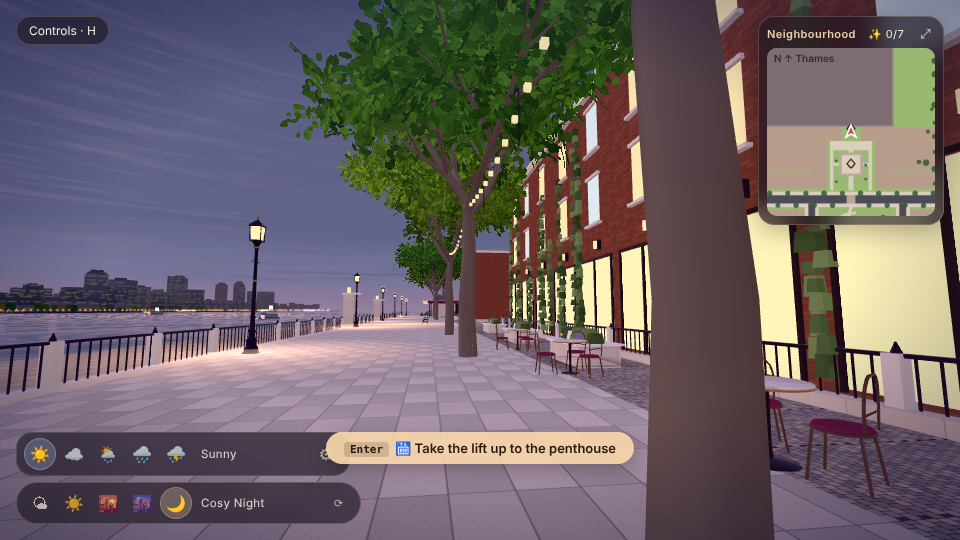
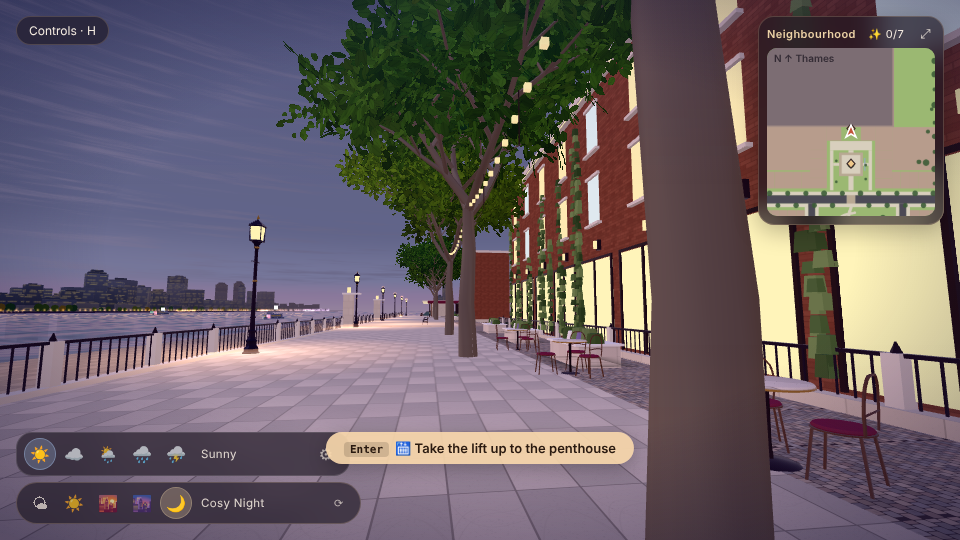
s15: night canopy dimming verified
Claude-Session: https://claude.ai/code/session_017ZtboRbFUCo4FCo9fUW3pH

Changed region(s): [[0.2812, 0.0, 0.6562, 0.5037], [0.0, 0.563, 0.3125, 0.6815]]

diff --git a/docs/bible/S15_BENCHMARK.md b/docs/bible/S15_BENCHMARK.md
@@ -25,4 +25,4 @@ Evidence: `evidence/s15_riverside_4way.jpg` (BEFORE p.65 / TARGET p.66 / LOCALHO
 Burgundy pavilion + café seating, denser canopy cards, interior depth behind glazing, Blender-baked neutral AO texture on the paving, owner M2 run.
 
 ## Regression (headless)
-Day, blue hour and night shots load with no page errors after the baked brick/ashlar/sett/slab texture sets (`evidence/s15_game_night.png`). Known: tree foliage stays bright at night (canopy not dimmed enough); rain preset not exercised by the script's `W=` variable (the weather toggle still showed Sunny) — rain regression still to run.
+Day, blue hour and night shots load with no page errors after the baked brick/ashlar/sett/slab texture sets (`evidence/s15_game_night.png`). Fixed: canopy now dims with the lamp factor at night (viewed). Open: rain preset not exercised by the script's `W=` variable (the weather toggle still showed Sunny) — rain regression still to run.
